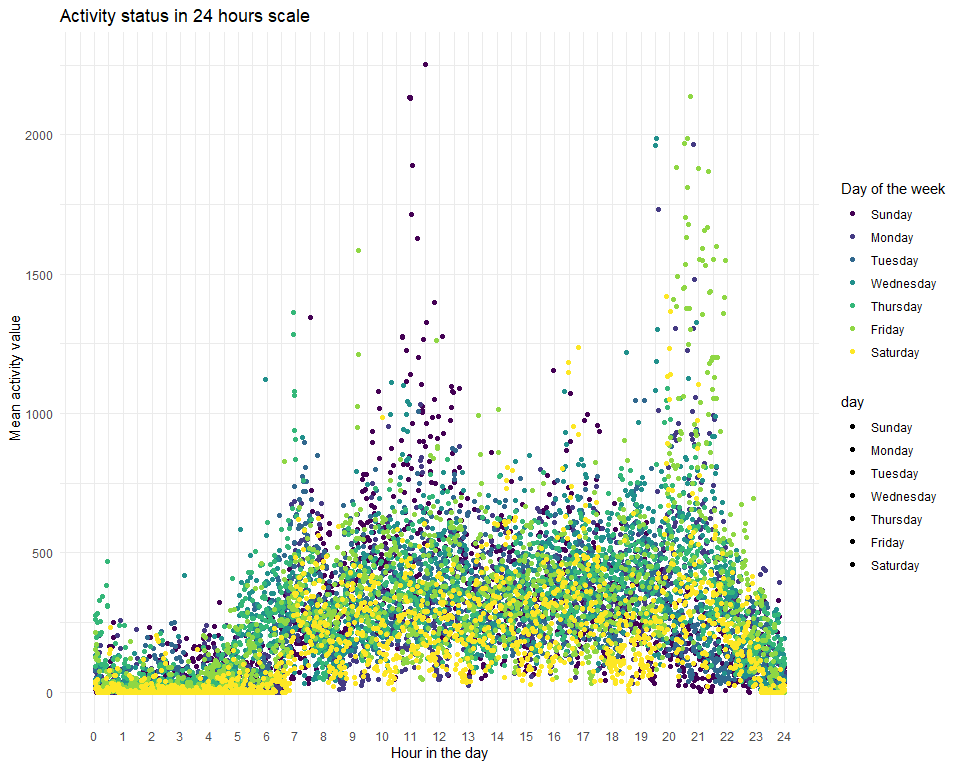
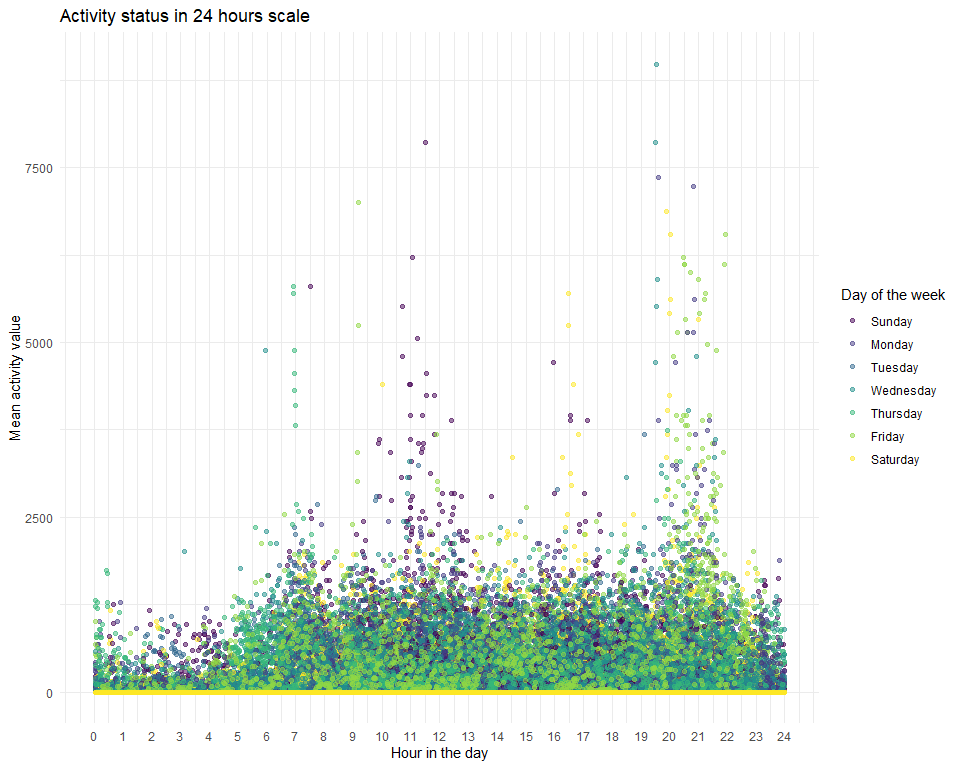
Confirmed the meaning of "each day", and add description of P2 distribution 1008

diff --git a/p8105_hw3_wk2343_rmd.md b/p8105_hw3_wk2343_rmd.md
@@ -286,6 +286,18 @@ Given the same reason in “Excellent” plot, I consider line plots as the
 best fit. To help better recognize each location, I put points on each
 data as well.
 
+The trend from lowest(Poor) to highest(Excellent) remains similar
+between 2006 and 2010. While Good(3) and Very Good(4) remains the
+dominant compositions of the answers, Poor(1) stays at the lowest
+composition.  
+When comparing accross locations, Westchester stands out as the best
+county since it owns the highest composition of Very Good and Excellent
+response. On the contrary, Queens and Bronx shares an nearly identical
+distribution in 2006 and contains more Fair(2) and Poor responses.  
+In 2010, Westchester still enjoys the highest level of health, but
+Queens had decent progress. Unfortunately, Bronx remains the poorest in
+health condition response.
+
 # Problem 3
 
 ## 1\. Clean data and describe
@@ -324,35 +336,68 @@ indicates the subject’s activity status at that minute.
 
 ``` r
 acc_data %>% 
-  group_by(day) %>% 
-  summarize(day_sum = sum(activity)) %>% 
-  rename("Day of the Week" = day,
+  group_by(week, day) %>% 
+  summarize(day_sum = sum(activity)) %>%
+  rename("Week" = week,
+         "Day of the Week" = day,
          "Accumulated activity value" = day_sum) %>% 
   knitr::kable()
 ```
 
-| Day of the Week | Accumulated activity value |
-| :-------------- | -------------------------: |
-| Sunday          |                    1919213 |
-| Monday          |                    1858701 |
-| Tuesday         |                    1799247 |
-| Wednesday       |                    2129770 |
-| Thursday        |                    2091175 |
-| Friday          |                    2291702 |
-| Saturday        |                    1369237 |
+| Week | Day of the Week | Accumulated activity value |
+| :--- | :-------------- | -------------------------: |
+| 1    | Sunday          |                     631105 |
+| 1    | Monday          |                      78830 |
+| 1    | Tuesday         |                     307103 |
+| 1    | Wednesday       |                     340113 |
+| 1    | Thursday        |                     355948 |
+| 1    | Friday          |                     480534 |
+| 1    | Saturday        |                     376254 |
+| 2    | Sunday          |                     422018 |
+| 2    | Monday          |                     295431 |
+| 2    | Tuesday         |                     423245 |
+| 2    | Wednesday       |                     440962 |
+| 2    | Thursday        |                     474048 |
+| 2    | Friday          |                     568839 |
+| 2    | Saturday        |                     607175 |
+| 3    | Sunday          |                     467052 |
+| 3    | Monday          |                     685910 |
+| 3    | Tuesday         |                     381507 |
+| 3    | Wednesday       |                     468869 |
+| 3    | Thursday        |                     371230 |
+| 3    | Friday          |                     467420 |
+| 3    | Saturday        |                     382928 |
+| 4    | Sunday          |                     260617 |
+| 4    | Monday          |                     409450 |
+| 4    | Tuesday         |                     319568 |
+| 4    | Wednesday       |                     434460 |
+| 4    | Thursday        |                     340291 |
+| 4    | Friday          |                     154049 |
+| 4    | Saturday        |                       1440 |
+| 5    | Sunday          |                     138421 |
+| 5    | Monday          |                     389080 |
+| 5    | Tuesday         |                     367824 |
+| 5    | Wednesday       |                     445366 |
+| 5    | Thursday        |                     549658 |
+| 5    | Friday          |                     620860 |
+| 5    | Saturday        |                       1440 |
 
-While there’s a small peak at Wednesday to Friday, the subject have a
-regular activity basis. The only exception is Saturday, which recorded a
-relatively low total of activity value.
+During weekdays, there’ s a general upward activity trend from Monday to
+Friday in the first three weeks. While weekends activity drops a little
+bit.  
+However, The difference of weekday and weekends become more emergent in
+week 4 and 5. On Saturdays, the activity status even dropped to 1440,
+which might be data loss due to technical issues or the subjects wasn’t
+wearing it at all.
 
 ## 3\. Course of the day analysis
 
 ``` r
 acc_data %>%
-  group_by(day, minute) %>% 
+  group_by(week, day, minute) %>% 
   summarize(mean_activity = mean(activity)) %>% 
-  ggplot(aes(x = minute ,y = mean_activity, color = day, fill = day)) + 
-  geom_point() + 
+  ggplot(aes(x = minute ,y = mean_activity, color = day)) + 
+  geom_point(alpha = 0.5) + 
   labs(
     title = "Activity status in 24 hours scale",
     x = "Hour in the day",
@@ -369,9 +414,6 @@ Trend that can be seen in this plot:
 
 1.Two activity peak emerges accross days: 11-12 o’clock and 20-22 o’
 clock.  
-2.The most active day is Sunday, but not at night. Peak values at 20-22
-period mostly belong to Friday.  
-3.The least active day is Saturday, which is corresponding to the result
-shown in part two.  
-4.Subject’s inactive/rest cycle is generally from 23 o’clock to around
+2.Peak values at 20-22 period mostly belong to Friday.  
+3.Subject’s inactive/rest cycle is generally from 23 o’clock to around
 6:30 on the next day.
